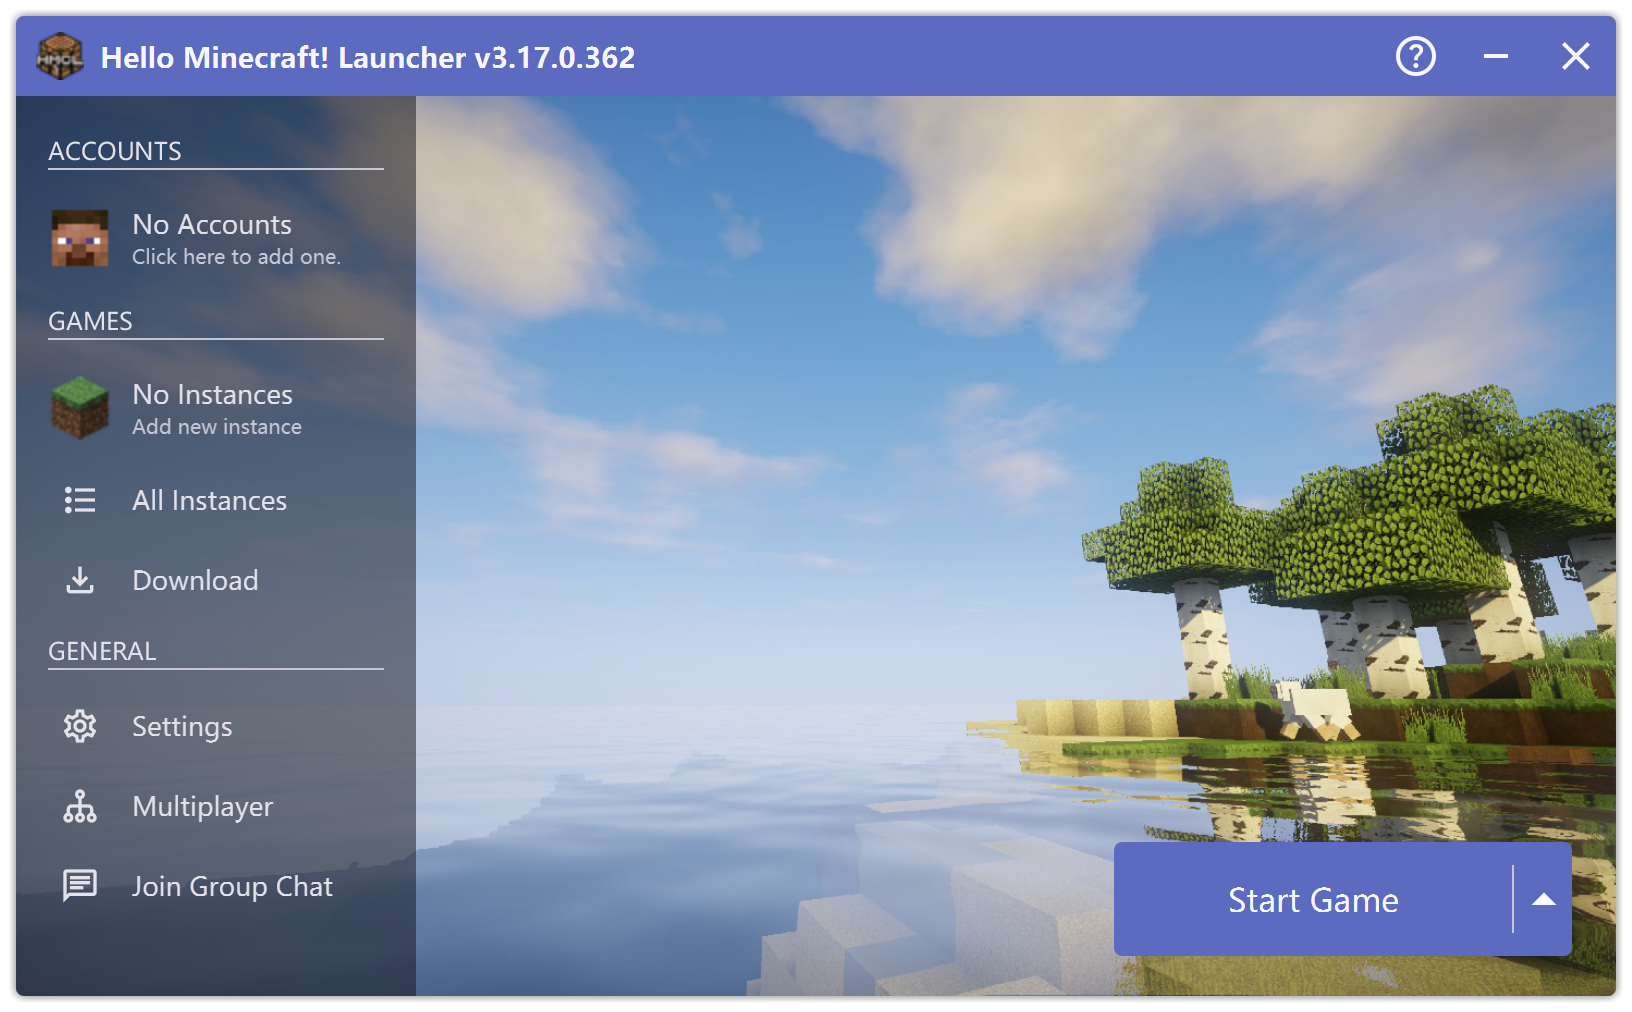
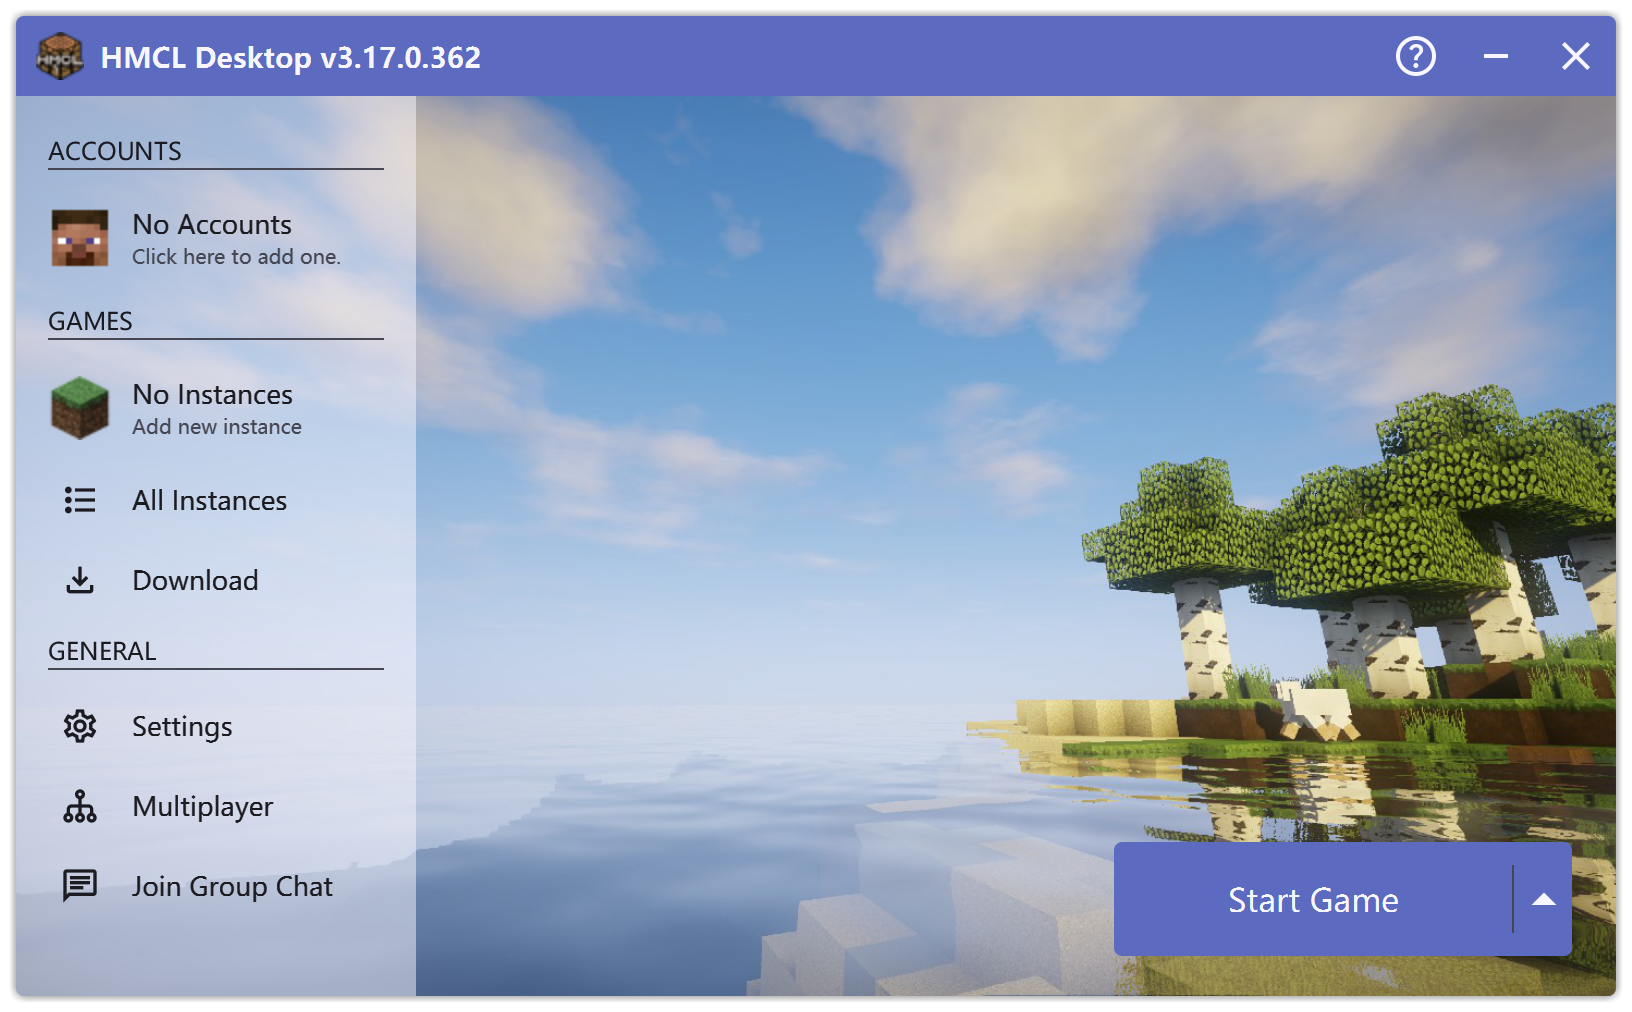
Publish public downloads and GPL license information

Changed region(s): [[0.0, 0.0306, 0.4062, 1.0]]

diff --git a/index.html b/index.html
@@ -5,7 +5,7 @@
   <meta name="viewport" content="width=device-width,initial-scale=1">
   <meta name="description" content="An independently maintained HMCL desktop launcher distribution by XDRi.Club. Microsoft account sign-in, Java Edition ownership verification, official game downloads and local account storage.">
   <meta name="color-scheme" content="light">
-  <title>HMCL · XDRi.Club</title>
+  <title>HMCL Desktop · XDRi.Club</title>
   <link rel="stylesheet" href="styles.css">
   <script src="site.js" defer></script>
 </head>
@@ -27,8 +27,8 @@
       <div class="eyebrow" data-enter="1">DESKTOP LAUNCHER / XDRi.Club</div>
       <h1 data-enter="2">HMCL.<br><span>Desktop launcher.</span></h1>
       <p class="intro" data-enter="3">An independently maintained distribution of the open-source HMCL launcher, with Microsoft account sign-in and Minecraft: Java Edition ownership verification.</p>
-      <div class="hero-actions" data-enter="4"><a class="button" href="https://github.com/jnlk-cn/HMCL-Desktop/releases/download/build/20261023-4e8cad4/HMCL-3.17.0.362-windows-x64-portable.zip">Download for Windows <span aria-hidden="true">↓</span></a><a class="text-link" href="#downloads">All downloads <span aria-hidden="true">↗</span></a></div>
-      <p class="release-note">Application version 3.17.0.362 · Microsoft accounts · Private repository access required</p>
+      <div class="hero-actions" data-enter="4"><a class="button" href="https://github.com/jnlk-cn/HMCL-Desktop/releases/download/build/20261023-05b240c/HMCL-3.17.0.362-windows-x64-portable.zip">Download for Windows <span aria-hidden="true">↓</span></a><a class="text-link" href="#downloads">All downloads <span aria-hidden="true">↗</span></a></div>
+      <p class="release-note">HMCL Desktop 3.17.0.362 · Microsoft accounts · Open source</p>
       <div class="notice">NOT AN OFFICIAL MINECRAFT PRODUCT. NOT APPROVED BY OR ASSOCIATED WITH MOJANG OR MICROSOFT.</div>
       <figure class="product-visual hero-visual" data-reveal data-image-slot="launcher-home">
         <div class="image-slot"><div class="image-placeholder" aria-hidden="true"><span class="placeholder-mark">H</span><span>LAUNCHER / OVERVIEW</span></div><a href="assets/launcher-home.png" target="_blank" rel="noopener" aria-label="Open the full-size launcher overview"><img src="assets/launcher-home.png" width="1632" height="1012" fetchpriority="high" decoding="async" alt="HMCL 3.17.0.362 home screen with an empty profile and the standard launcher interface."></a></div>
@@ -48,18 +48,18 @@
     </section>
     <section class="section" id="downloads">
       <div class="section-heading" data-reveal><span class="number">02 / DOWNLOADS</span><h2>Download HMCL.<br>Choose your package.</h2></div>
-      <div class="download-summary"><p><strong>HMCL 3.17.0.362</strong> · Published October 23, 2026</p><a href="https://github.com/jnlk-cn/HMCL-Desktop/releases/tag/build/20261023-4e8cad4">Release notes and all 9 assets ↗</a></div>
-      <p class="small download-access">Downloads are hosted in the private HMCL-Desktop repository. Sign in to a GitHub account with repository access before downloading. Without that access, GitHub may show a 404 page.</p>
+      <div class="download-summary"><p><strong>HMCL Desktop 3.17.0.362</strong> · Published October 23, 2026</p><a href="https://github.com/jnlk-cn/HMCL-Desktop/releases/tag/build/20261023-05b240c">Release notes and all 9 assets ↗</a></div>
+      <p class="small download-access">Downloads are public and do not require a GitHub account. Matching source, license notices and checksums are provided with each release.</p>
       <ul class="download-grid" aria-label="Release downloads">
-        <li data-reveal><h3>Windows portable</h3><p>The launcher and JavaFX dependencies. Requires an installed Java runtime.</p><a class="download-link" href="https://github.com/jnlk-cn/HMCL-Desktop/releases/download/build/20261023-4e8cad4/HMCL-3.17.0.362-windows-x64-portable.zip">Download ZIP <span aria-hidden="true">↓</span></a><span class="file-info">38.3 MiB · Windows x64</span></li>
-        <li data-reveal><h3>Windows executable</h3><p>The standalone Windows launcher executable.</p><a class="download-link" href="https://github.com/jnlk-cn/HMCL-Desktop/releases/download/build/20261023-4e8cad4/HMCL-3.17.0.362.exe">Download EXE <span aria-hidden="true">↓</span></a><span class="file-info">11.0 MiB · Windows</span></li>
-        <li data-reveal><h3>Java archive</h3><p>Run with a compatible Java runtime on your system.</p><a class="download-link" href="https://github.com/jnlk-cn/HMCL-Desktop/releases/download/build/20261023-4e8cad4/HMCL-3.17.0.362.jar">Download JAR <span aria-hidden="true">↓</span></a><span class="file-info">10.6 MiB · Java</span></li>
-        <li data-reveal><h3>Shell launcher</h3><p>A shell entry point for systems with a compatible Java runtime.</p><a class="download-link" href="https://github.com/jnlk-cn/HMCL-Desktop/releases/download/build/20261023-4e8cad4/HMCL-3.17.0.362.sh">Download SH <span aria-hidden="true">↓</span></a><span class="file-info">10.6 MiB · Shell / Java</span></li>
-        <li data-reveal><h3>Corresponding source</h3><p>The source archive matching this launcher release.</p><a class="download-link" href="https://github.com/jnlk-cn/HMCL-Desktop/releases/download/build/20261023-4e8cad4/HMCL-3.17.0.362-source.zip">Download source <span aria-hidden="true">↓</span></a><span class="file-info">6.0 MiB · ZIP</span></li>
-        <li data-reveal><h3>SHA-256 checksums</h3><p>Compare a downloaded file's hash before running it.</p><a class="download-link" href="https://github.com/jnlk-cn/HMCL-Desktop/releases/download/build/20261023-4e8cad4/SHA256SUMS.txt">Download checksums <span aria-hidden="true">↓</span></a><span class="file-info">703 bytes · Text</span></li>
+        <li data-reveal><h3>Windows portable</h3><p>The launcher and JavaFX dependencies. Requires an installed Java runtime.</p><a class="download-link" href="https://github.com/jnlk-cn/HMCL-Desktop/releases/download/build/20261023-05b240c/HMCL-3.17.0.362-windows-x64-portable.zip">Download ZIP <span aria-hidden="true">↓</span></a><span class="file-info">38.3 MiB · Windows x64</span></li>
+        <li data-reveal><h3>Windows executable</h3><p>The standalone Windows launcher executable.</p><a class="download-link" href="https://github.com/jnlk-cn/HMCL-Desktop/releases/download/build/20261023-05b240c/HMCL-3.17.0.362.exe">Download EXE <span aria-hidden="true">↓</span></a><span class="file-info">11.0 MiB · Windows</span></li>
+        <li data-reveal><h3>Java archive</h3><p>Run with a compatible Java runtime on your system.</p><a class="download-link" href="https://github.com/jnlk-cn/HMCL-Desktop/releases/download/build/20261023-05b240c/HMCL-3.17.0.362.jar">Download JAR <span aria-hidden="true">↓</span></a><span class="file-info">10.6 MiB · Java</span></li>
+        <li data-reveal><h3>Shell launcher</h3><p>A shell entry point for systems with a compatible Java runtime.</p><a class="download-link" href="https://github.com/jnlk-cn/HMCL-Desktop/releases/download/build/20261023-05b240c/HMCL-3.17.0.362.sh">Download SH <span aria-hidden="true">↓</span></a><span class="file-info">10.6 MiB · Shell / Java</span></li>
+        <li data-reveal><h3>Corresponding source</h3><p>The source archive matching this launcher release.</p><a class="download-link" href="https://github.com/jnlk-cn/HMCL-Desktop/releases/download/build/20261023-05b240c/HMCL-3.17.0.362-source.zip">Download source <span aria-hidden="true">↓</span></a><span class="file-info">6.0 MiB · ZIP</span></li>
+        <li data-reveal><h3>SHA-256 checksums</h3><p>Compare a downloaded file's hash before running it.</p><a class="download-link" href="https://github.com/jnlk-cn/HMCL-Desktop/releases/download/build/20261023-05b240c/SHA256SUMS.txt">Download checksums <span aria-hidden="true">↓</span></a><span class="file-info">711 bytes · Text</span></li>
       </ul>
       <div class="feature-grid"><article><h3>Official game sources</h3><p>Minecraft manifests, game binaries, asset indexes and assets use Mojang's official HTTPS sources. There is no community mirror fallback for this content.</p></article><article><h3>Third-party components</h3><p>Loader and addon metadata can use BMCLAPI or MCIM alongside the original providers. Download mirrors are separate from account authentication.</p></article><article><h3>Launcher-only packages</h3><p>Releases include the launcher, its dependencies, corresponding source and SHA-256 checksums. No Minecraft game installation or personal account data is bundled.</p></article><article><h3>Manual launcher updates</h3><p>Launcher self-updates are disabled. Obtain a new launcher release manually. Game installation and game updates remain available when you request them.</p></article></div>
-      <p class="small">Source and release artifacts are maintained in a private repository. Download links require repository access. This site publishes project information only.</p>
+      <p class="small">Source and release artifacts are publicly available under GPLv3 or later, with the upstream additional terms.</p>
     </section>
     <section class="section" id="privacy">
       <div class="section-heading" data-reveal><span class="number">03 / PRIVACY</span><h2>Local account storage.<br>No usage telemetry.</h2></div>
@@ -67,7 +67,7 @@
     </section>
     <section class="section about" id="about">
       <div class="section-heading" data-reveal><span class="number">04 / PROJECT</span><h2>Maintained independently.<br>Built on HMCL.</h2></div>
-      <div class="prose" data-reveal><p>This distribution is maintained by <strong>XDRi.Club</strong>, through the <a href="https://github.com/jnlk-cn">jnlk-cn GitHub account</a>. It is derived from <a href="https://github.com/HMCL-dev/HMCL">the upstream HMCL project</a> and retains its copyright notices and GPLv3 license with upstream additional terms.</p><p>It is not submitted, published or maintained on behalf of the upstream HMCL team, Mojang Studios or Microsoft. The launcher retains the HMCL interface and displayed program version; this does not imply an upstream release signature or official endorsement.</p><p>Project contact: <a href="mailto:minemacraft@outlook.com">minemacraft@outlook.com</a></p><div class="project-links"><a href="https://github.com/jnlk-cn/HMCL-Desktop">Source repository ↗</a><a href="https://github.com/jnlk-cn/HMCL-Desktop/releases">Release artifacts ↗</a><a href="https://github.com/jnlk-cn/HMCL-Website">Website source ↗</a></div></div>
+      <div class="prose" data-reveal><p>This distribution is maintained by <strong>XDRi.Club</strong>, through the <a href="https://github.com/jnlk-cn">jnlk-cn GitHub account</a>. It is derived from <a href="https://github.com/HMCL-dev/HMCL">the upstream HMCL project</a> and retains its copyright notices and GPLv3-or-later license with upstream additional terms.</p><p>HMCL Desktop is maintained independently of the upstream HMCL team, Mojang Studios and Microsoft. Its software name distinguishes this modified distribution; the interface layout and recorded numeric version are retained.</p><p>Project contact: <a href="mailto:minemacraft@outlook.com">minemacraft@outlook.com</a></p><div class="project-links"><a href="https://github.com/jnlk-cn/HMCL-Desktop">Source repository ↗</a><a href="https://github.com/jnlk-cn/HMCL-Desktop/releases">Release artifacts ↗</a><a href="https://github.com/jnlk-cn/HMCL-Website">Website source ↗</a><a href="https://github.com/jnlk-cn/HMCL-Desktop/blob/main/ADDITIONAL-TERMS.md">License and additional terms ↗</a></div></div>
     </section>
   </main>
   <footer><span>HMCL / Maintained by XDRi.Club</span><span>Not an official Minecraft product.</span></footer>

diff --git a/site.js b/site.js
@@ -16,7 +16,7 @@
     'An independently maintained distribution of the open-source HMCL launcher, with Microsoft account sign-in and Minecraft: Java Edition ownership verification.': '基于开源 HMCL 项目独立维护的发行版，支持微软账户登录和 Minecraft Java 版游戏资格验证。',
     'Download for Windows': '下载 Windows 版',
     'All downloads': '全部下载',
-    'Application version 3.17.0.362 · Microsoft accounts · Private repository access required': '程序版本 3.17.0.362 · 微软账户登录 · 下载需要私有仓库权限',
+    'HMCL Desktop 3.17.0.362 · Microsoft accounts · Open source': 'HMCL Desktop 3.17.0.362 · 微软账户登录 · 开源发布',
     'NOT AN OFFICIAL MINECRAFT PRODUCT. NOT APPROVED BY OR ASSOCIATED WITH MOJANG OR MICROSOFT.': '本产品并非 Minecraft 官方产品，未获得 Mojang 或 Microsoft 的批准，也与其不存在关联。',
     'LAUNCHER / OVERVIEW': '启动器 / 总览',
     'THE LAUNCHER': '启动器界面',
@@ -59,7 +59,7 @@
     'Choose your package.': '选择适合的文件。',
     '· Published October 23, 2026': '· 发布于 2026 年 10 月 23 日',
     'Release notes and all 9 assets ↗': '发行说明及全部 9 个附件 ↗',
-    'Downloads are hosted in the private HMCL-Desktop repository. Sign in to a GitHub account with repository access before downloading. Without that access, GitHub may show a 404 page.': '下载文件保存在 HMCL-Desktop 私有仓库。请先登录拥有该仓库访问权限的 GitHub 账号；没有权限时，GitHub 可能显示 404 页面。',
+    'Downloads are public and do not require a GitHub account. Matching source, license notices and checksums are provided with each release.': '下载公开提供，无需 GitHub 账号。每份发行文件均附对应源码、许可证声明和校验值。',
     'Release downloads': '发行文件下载',
     'Windows portable': 'Windows 便携包',
     'The launcher and JavaFX dependencies. Requires an installed Java runtime.': '包含启动器与 JavaFX 依赖，需要电脑已安装兼容的 Java 运行环境。',
@@ -79,7 +79,7 @@
     'SHA-256 checksums': 'SHA-256 校验值',
     "Compare a downloaded file's hash before running it.": '运行前，核对下载文件的哈希值。',
     'Download checksums': '下载校验文件',
-    '703 bytes · Text': '703 字节 · 文本',
+    '711 bytes · Text': '711 字节 · 文本',
     'Official game sources': '官方游戏来源',
     "Minecraft manifests, game binaries, asset indexes and assets use Mojang's official HTTPS sources. There is no community mirror fallback for this content.": 'Minecraft 版本清单、游戏文件、资源索引及资源使用 Mojang 官方 HTTPS 来源，不回退到社区游戏镜像。',
     'Third-party components': '第三方组件',
@@ -88,7 +88,7 @@
     'Releases include the launcher, its dependencies, corresponding source and SHA-256 checksums. No Minecraft game installation or personal account data is bundled.': '发行文件提供启动器、依赖、对应源码和 SHA-256 校验值，不附带 Minecraft 游戏安装内容或个人账号数据。',
     'Manual launcher updates': '手动更新启动器',
     'Launcher self-updates are disabled. Obtain a new launcher release manually. Game installation and game updates remain available when you request them.': '启动器自动更新已禁用，请手动获取新版发行文件。仍可按需安装和更新游戏。',
-    'Source and release artifacts are maintained in a private repository. Download links require repository access. This site publishes project information only.': '源码和发行文件保存在私有仓库，下载需要仓库访问权限。本网站仅提供项目说明。',
+    'Source and release artifacts are publicly available under GPLv3 or later, with the upstream additional terms.': '源码和发行文件公开提供，采用 GPLv3 或后续版本，并保留上游附加条款。',
     '03 / PRIVACY': '03 / 隐私',
     'Local account storage.': '账户数据留在本地。',
     'No usage telemetry.': '不收集使用遥测。',
@@ -105,12 +105,13 @@
     'jnlk-cn GitHub account': 'jnlk-cn GitHub 账号',
     '. It is derived from': '发布。基于',
     'the upstream HMCL project': '上游 HMCL 项目',
-    'and retains its copyright notices and GPLv3 license with upstream additional terms.': '构建，保留原版权声明、GPLv3 许可证及上游附加条款。',
-    'It is not submitted, published or maintained on behalf of the upstream HMCL team, Mojang Studios or Microsoft. The launcher retains the HMCL interface and displayed program version; this does not imply an upstream release signature or official endorsement.': '本发行版并非代表上游 HMCL 团队、Mojang Studios 或 Microsoft 申请、发布或维护。启动器保留 HMCL 界面样式和程序显示版本，不代表拥有上游发行签名或官方认可。',
+    'and retains its copyright notices and GPLv3-or-later license with upstream additional terms.': '构建，保留原版权声明、GPLv3 或后续版本的许可证及上游附加条款。',
+    'HMCL Desktop is maintained independently of the upstream HMCL team, Mojang Studios and Microsoft. Its software name distinguishes this modified distribution; the interface layout and recorded numeric version are retained.': 'HMCL Desktop 独立于上游 HMCL 团队、Mojang Studios 和 Microsoft 维护。软件名称用于区分修改发行版，保留原界面布局和记录的数字版本号。',
     'Project contact:': '项目联系邮箱：',
     'Source repository ↗': '源码仓库 ↗',
     'Release artifacts ↗': '发行文件 ↗',
     'Website source ↗': '网站源码 ↗',
+    'License and additional terms ↗': '许可证及附加条款 ↗',
     'HMCL / Maintained by XDRi.Club': 'HMCL / 由 XDRi.Club 独立维护',
     'Not an official Minecraft product.': '非 Minecraft 官方产品。',
     'An independently maintained HMCL desktop launcher distribution by XDRi.Club. Microsoft account sign-in, Java Edition ownership verification, official game downloads and local account storage.': '由 XDRi.Club 独立维护的 HMCL 桌面启动器发行版，支持微软账户登录、Java 版游戏资格验证、官方游戏下载和本地账户存储。'

diff --git a/README.md b/README.md
@@ -1,4 +1,4 @@
-# HMCL project website
+# HMCL Desktop project website
 
 Static project information for the HMCL desktop distribution independently maintained by XDRi.Club.
 
@@ -6,7 +6,7 @@ Website: https://jnlk-cn.github.io/HMCL-Website/
 
 Project contact: [minemacraft@outlook.com](mailto:minemacraft@outlook.com)
 
-Current release: [build/20261023-4e8cad4](https://github.com/jnlk-cn/HMCL-Desktop/releases/tag/build/20261023-4e8cad4). The [website download section](https://jnlk-cn.github.io/HMCL-Website/#downloads) links to its launcher packages, corresponding source and checksums. Launcher source and release assets remain in the private `jnlk-cn/HMCL-Desktop` repository.
+Current release: [build/20261023-05b240c](https://github.com/jnlk-cn/HMCL-Desktop/releases/tag/build/20261023-05b240c). The [website download section](https://jnlk-cn.github.io/HMCL-Website/#downloads) links to its launcher packages, corresponding source and checksums. Launcher source and release assets are publicly available in [`jnlk-cn/HMCL-Desktop`](https://github.com/jnlk-cn/HMCL-Desktop), under GPLv3 or later with the retained upstream additional terms. Downloads do not require a GitHub account.
 
 This public repository contains the website only, with no analytics, login forms or external scripts. Product image slots contain direct captures of this distribution's standard interface and project-authored authentication diagrams; see [image provenance](assets/README.md).
 

diff --git a/assets/README.md b/assets/README.md
@@ -1,6 +1,6 @@
 # Project images
 
-The PNG files are direct JavaFX scene captures from HMCL 3.17.0.362, using an isolated empty profile. They show the home screen, Microsoft account management and the Microsoft sign-in dialog. No account credentials were entered, and no image pixels were edited. The 2x render scale supplies sharper images for high-density displays.
+The PNG files are direct JavaFX scene captures from HMCL Desktop 3.17.0.362, using an isolated empty profile. They show the home screen, Microsoft account management and the Microsoft sign-in dialog. No account credentials were entered, and no image pixels were edited. The 2x render scale supplies sharper images for high-density displays.
 
 The SVG diagrams are project-authored explanations of the Microsoft authentication and ownership checks, with separate desktop and mobile layouts in English and Simplified Chinese. The page language controls select the corresponding diagram. They are not account approval or game-entry evidence.
 
